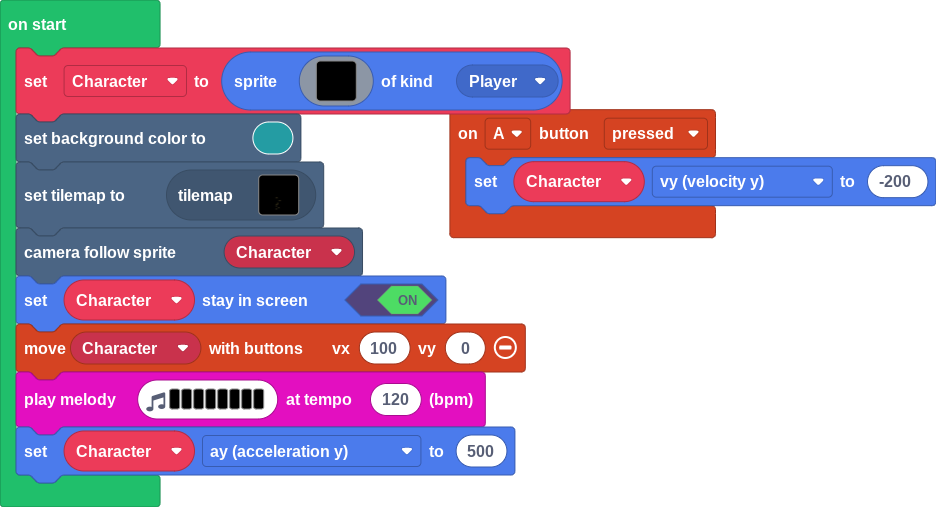
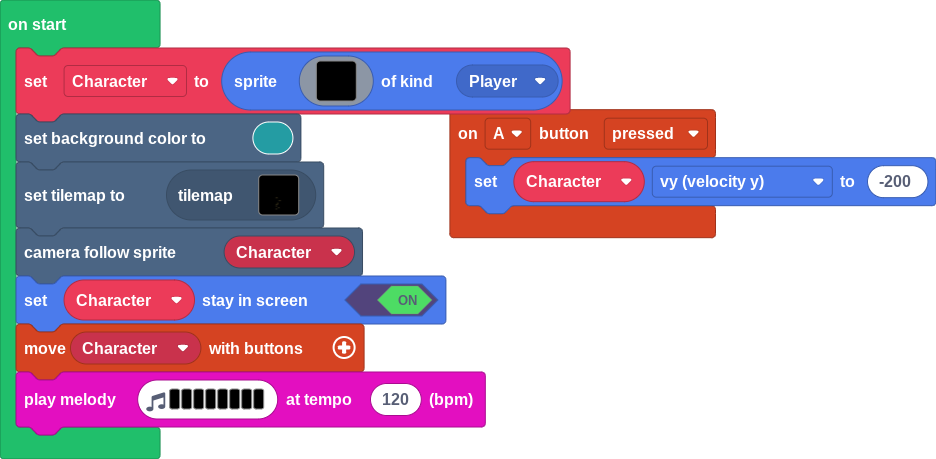
Update main.blocks, main.ts

diff --git a/main.ts b/main.ts
@@ -48,6 +48,5 @@ scene.setBackgroundColor(6)
 tiles.setCurrentTilemap(tilemap`level1`)
 scene.cameraFollowSprite(Character)
 Character.setStayInScreen(true)
-controller.moveSprite(Character, 100, 0)
+controller.moveSprite(Character)
 music.playMelody("D G D B C E F D ", 120)
-Character.ay = 500
